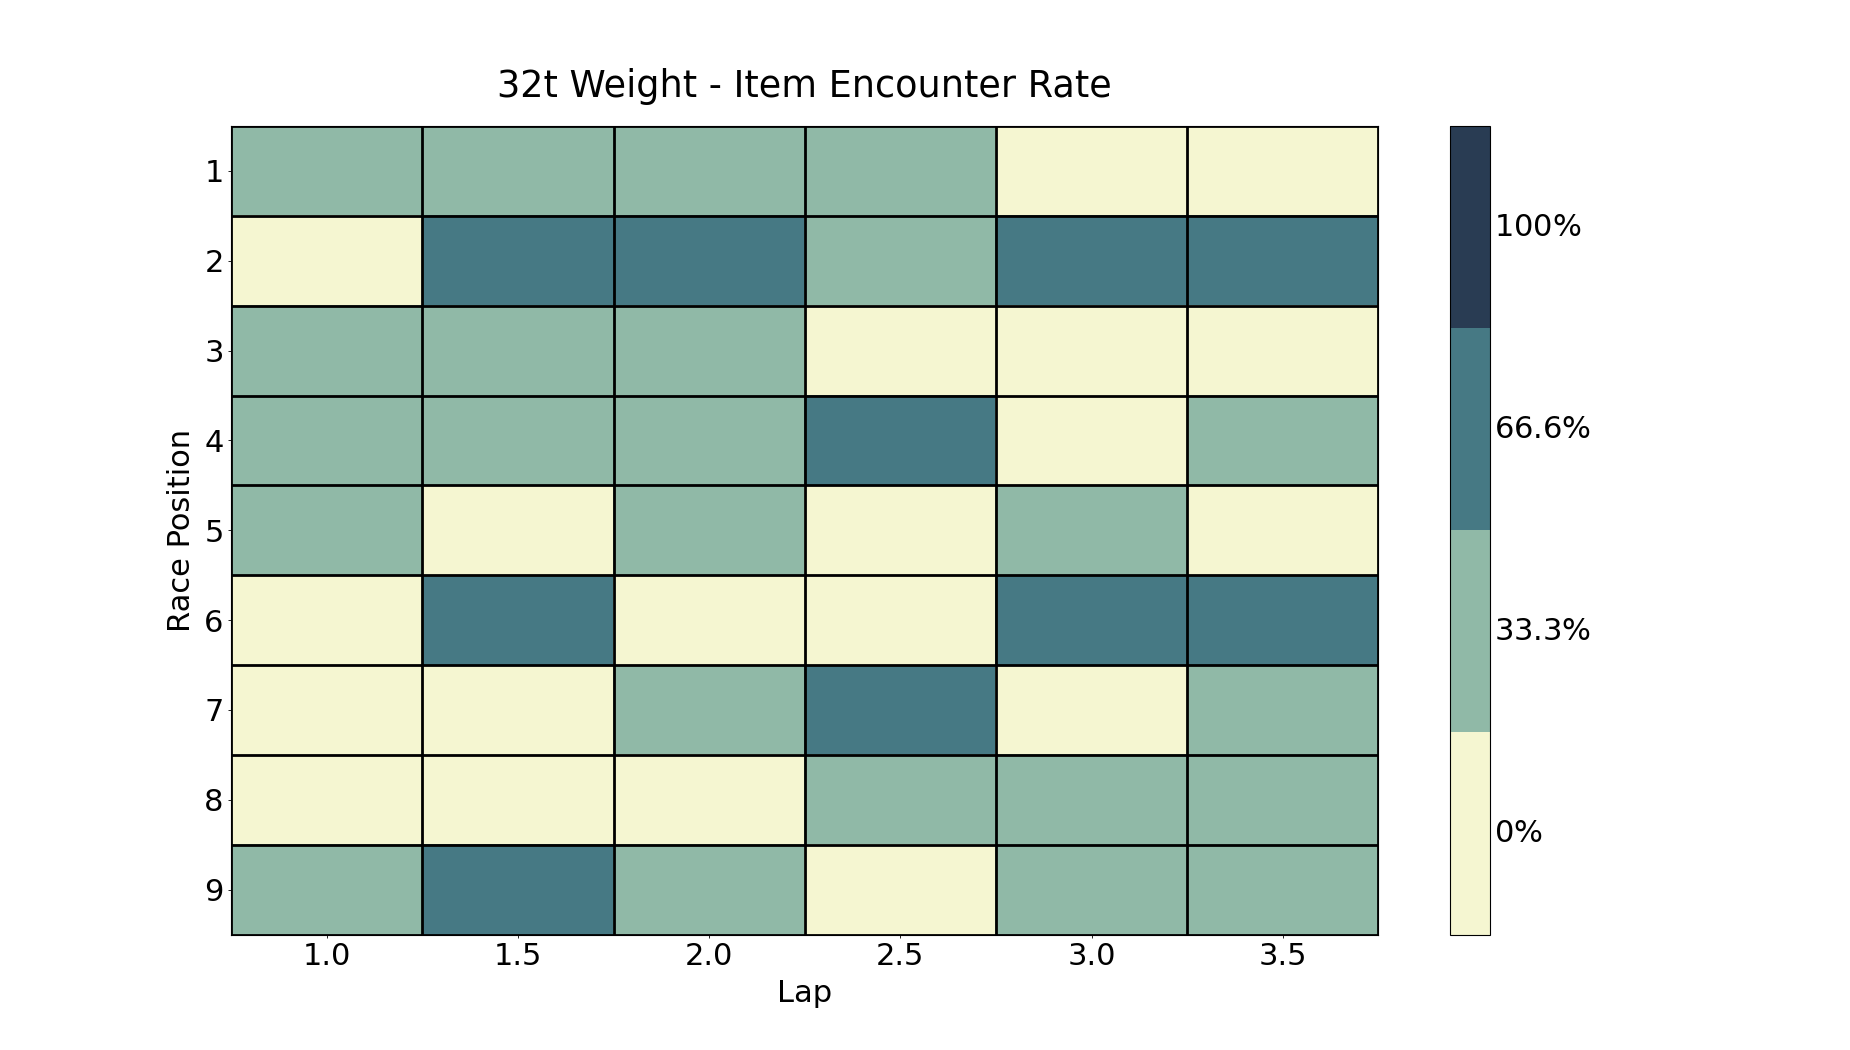
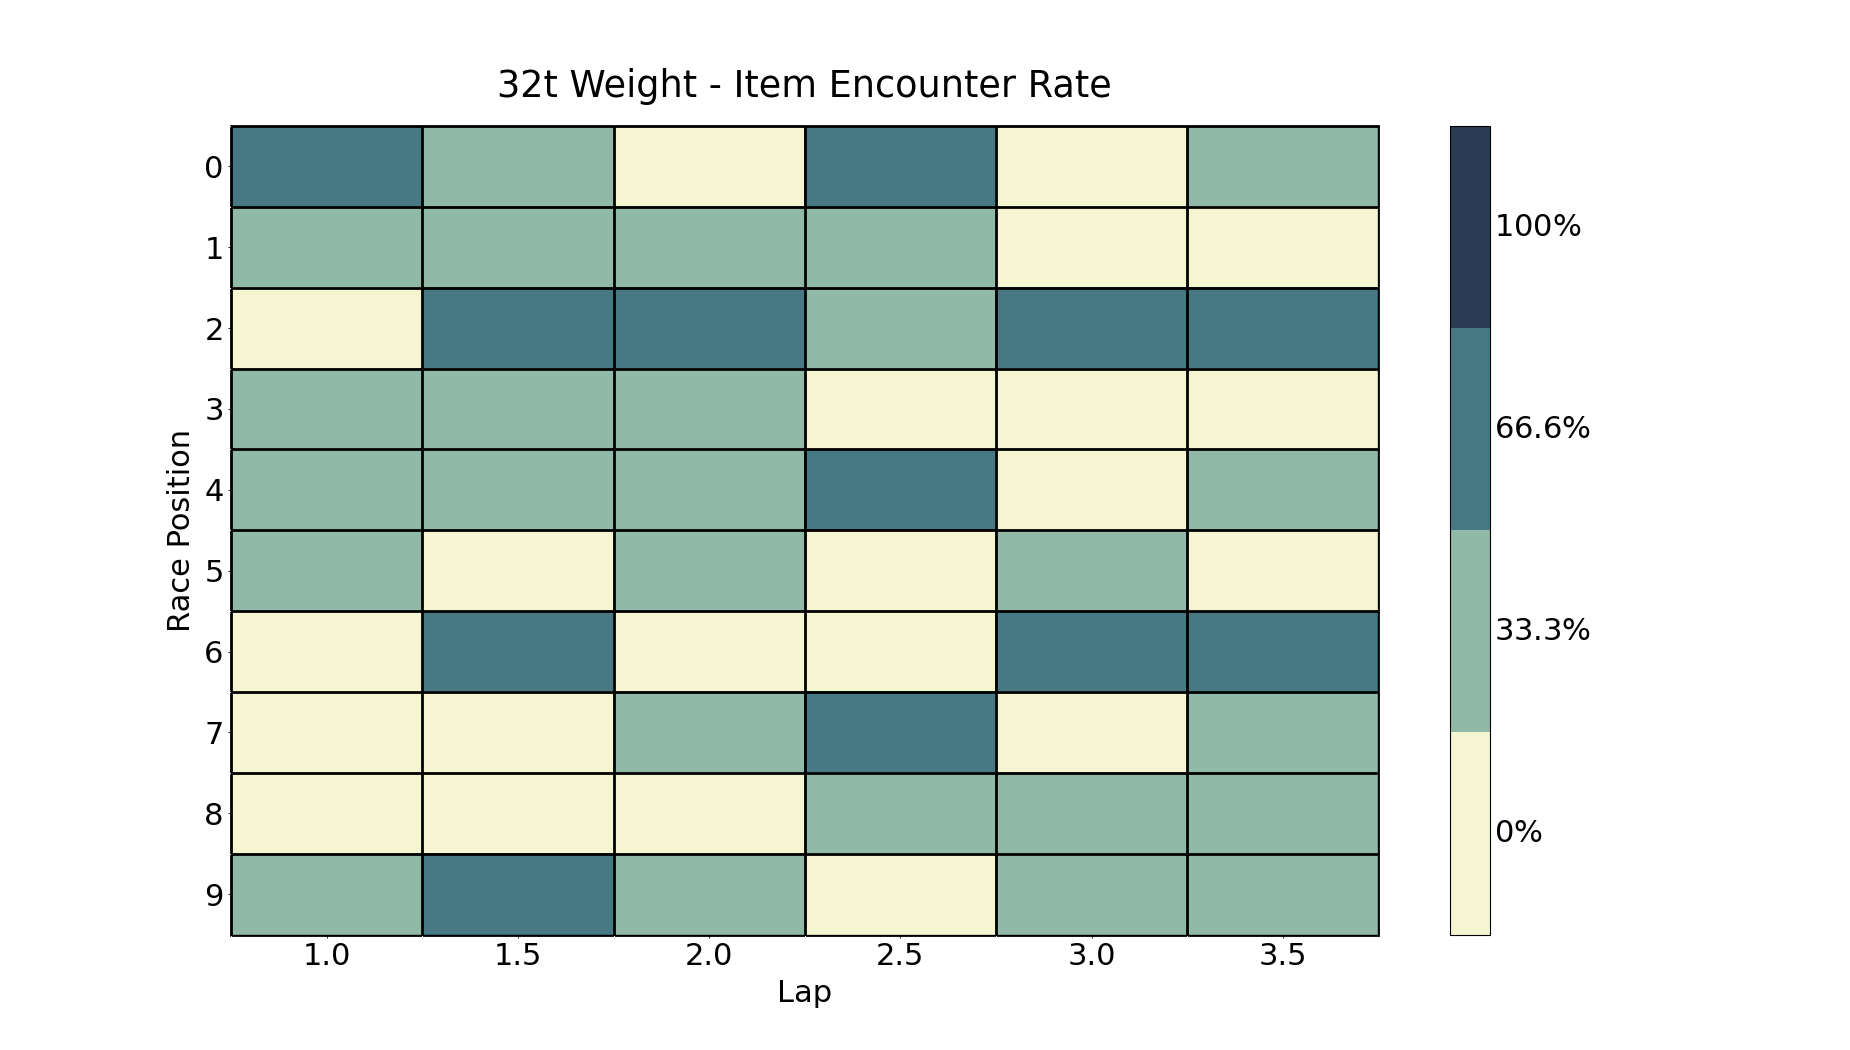
Updating heatmaps with secret 0th position row
It turns out, like there is a secret 9th position if player is too far behind, there is also a secret 0th position if the player is super far ahead. I have no idea why the developers thought it a good idea to give leaders more Super Shield but I guess it's good for speed running

diff --git a/itemWheel/descrambleWheels.py b/itemWheel/descrambleWheels.py
@@ -170,12 +170,12 @@ def generate_graph(stats, item, save_graph=True, show_graph=False):
     :param save_graph: If True, graph will be saved to a "graphs" directory in the cwd
     :param show_graph: If True, will display graph to user
     """
-    graph_data = np.zeros(shape=(9,6), dtype=float)
+    graph_data = np.zeros(shape=(10,6), dtype=float)
     for race_prog_int in range(6):
-        for race_pos in range(1, 10):
+        for race_pos in range(0, 10):
             race_prog = race_prog_int / 2.0
             item_chance = stats.get((race_prog, race_pos, item), 0.0) / float(NUM_WHEELS)
-            graph_data[race_pos-1][race_prog_int] = np.float64(item_chance)
+            graph_data[race_pos][race_prog_int] = np.float64(item_chance)
 
     # discrete color scheme
     ctf = 255.0 # color int to float
@@ -197,8 +197,12 @@ def generate_graph(stats, item, save_graph=True, show_graph=False):
     for j, lab in enumerate(['$0\%$','$33.3\%$','$66.6\%$','$100\%$']):
         cbar.ax.text(1.1, (2 * j + 1) / 8.0, lab, ha='left', va='center')
 
-    # Turn spines off and create white grid.
+    # Turn spines off and create black (major) grid with border
     ax.grid(which='major', color="black", linestyle='-', linewidth=2)
+    ax.set_xticks(np.arange(graph_data.shape[1]), np.arange(graph_data.shape[1]))
+    ax.set_yticks(np.arange(graph_data.shape[0]), np.arange(graph_data.shape[0]))
+    ax.patch.set_edgecolor('black')
+    ax.patch.set_linewidth('2')
 
     # hacky way to remove minor major ticks
     ax.tick_params(axis='both', which='major', colors='white')
@@ -210,7 +214,7 @@ def generate_graph(stats, item, save_graph=True, show_graph=False):
 
     # Update lables to be the correct base and format
     ax.set_xticklabels(np.arange(1, 4, 0.5, dtype=float), minor=True)
-    ax.set_yticklabels(np.arange(1, 10), minor=True)
+    ax.set_yticklabels(np.arange(0, 10), minor=True)
 
     # Generate title and filename
     item_name = ITEM_DICT[item]
